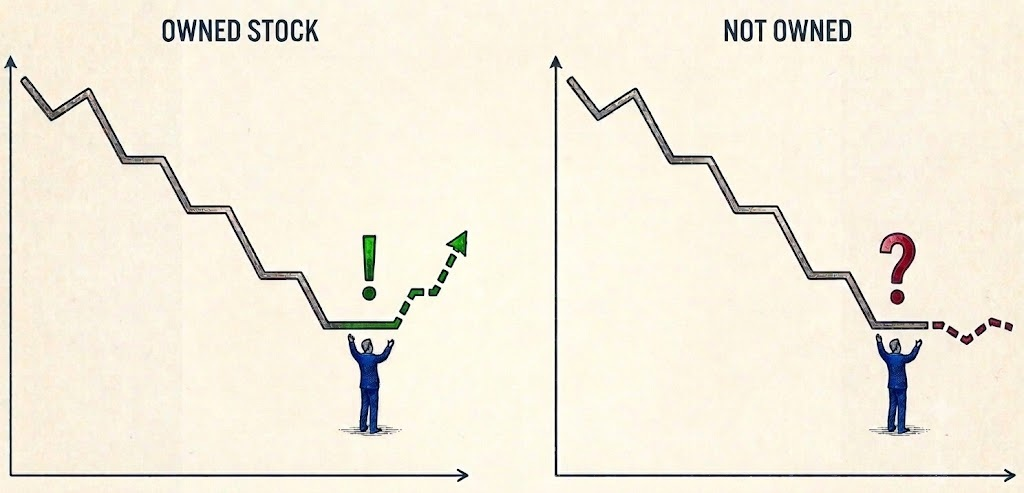
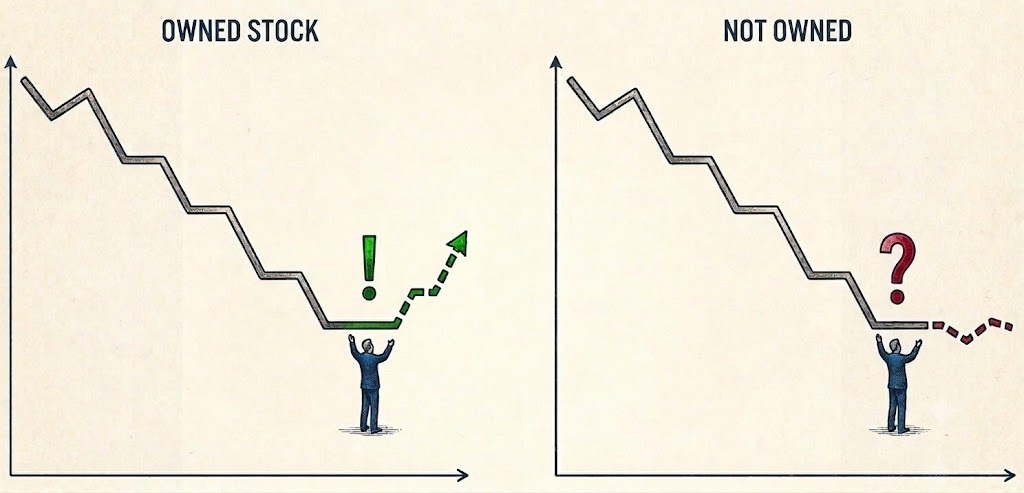
Enforce breaks in heading for mobile view.

Changed region(s): [[0.8438, 0.6998, 0.9062, 0.8824], [0.3438, 0.6694, 0.4062, 0.8824]]

diff --git a/index.html b/index.html
@@ -1,10 +1,4 @@
 <!DOCTYPE HTML>
-<!--
-	Strata by HTML5 UP
-	html5up.net | @ajlkn
-	Free for personal and commercial use under the CCA 3.0 license (html5up.net/license)
-	Customized for Daniele Mauriello – Economics PhD Job Market Website
--->
 <html>
 	<head>
 		<title>Daniele Mauriello</title>
@@ -45,7 +39,7 @@
 						</ul>
 					</section>
 
-				<!-- Job Market Papers — uses the original photo-grid layout for visual flair -->
+				<!-- Job Market Papers -->
 					<section id="job_market_paper">
 						<h2>Job Market Paper</h2>
 
@@ -62,7 +56,7 @@
 						</div>
 					</section>
 
-				<!-- Working Papers — uses the original photo-grid layout for visual flair -->
+				<!-- Working Papers -->
 					<section id="working_papers">
 						<h2>Working Papers</h2>
 
@@ -189,6 +183,21 @@
 
 			<!-- Lightbox overlay: covers avatar + all work-item paper covers -->
 			<style>
+				/*
+				 * Force the header name/title/affiliation onto three separate lines
+				 * on all viewport widths. The Strata theme's mobile breakpoint can
+				 * place #header h1 in a layout mode (inline/flex) where <br> tags
+				 * stop reliably creating line breaks, so we make each line an
+				 * explicit block instead of relying on <br>.
+				 */
+				#header h1 {
+					display: block;
+				}
+				#header h1 br {
+					display: block;
+					content: "";
+				}
+
 				/*
 				 * Lightbox overlay and image container.
 				 * z-index sits above the Strata theme's header (z-index ~10000 in main.css)